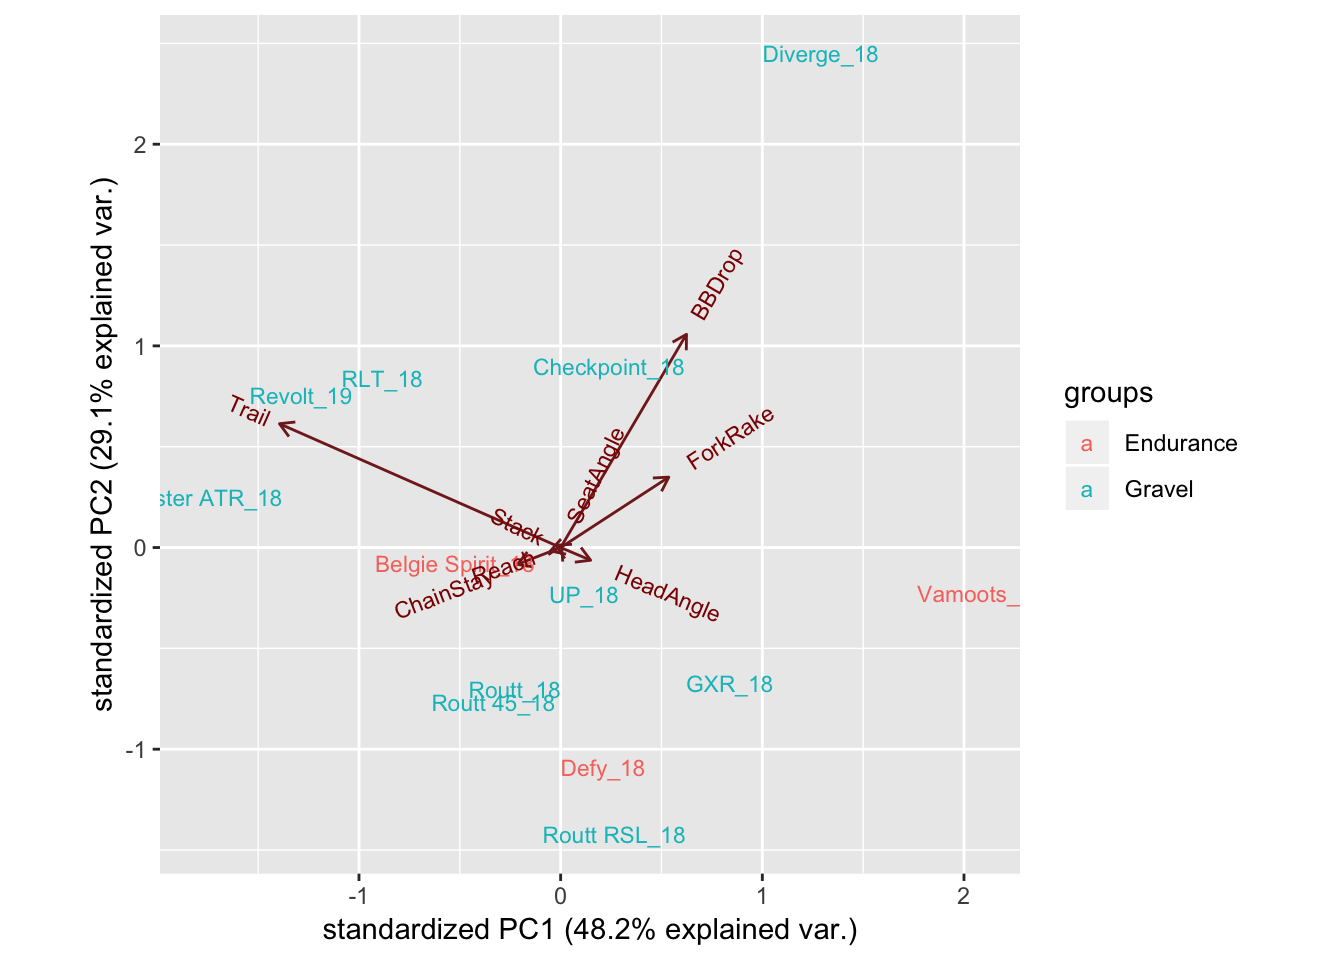
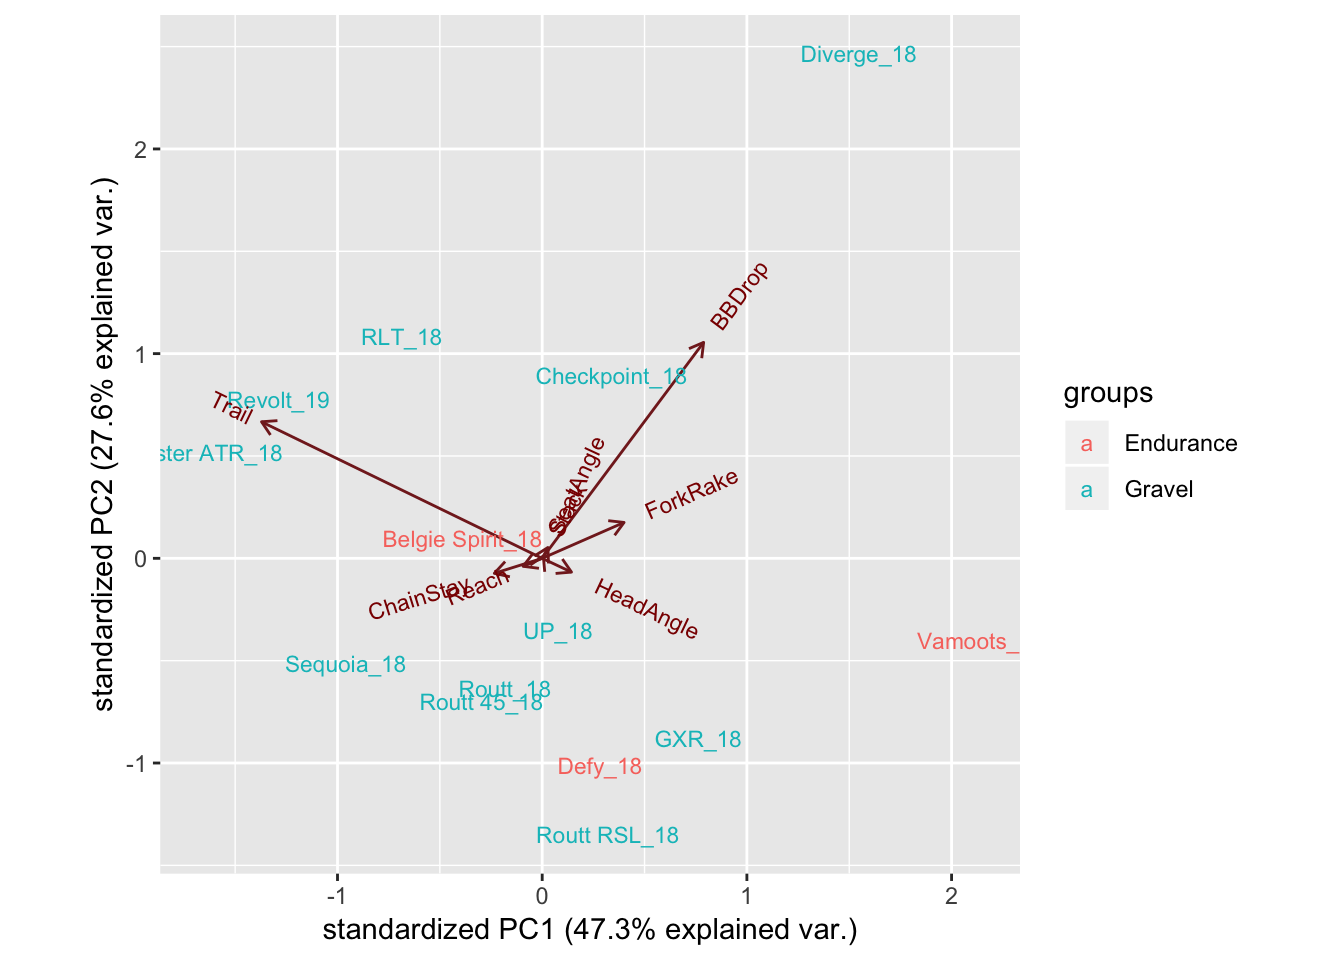
Added sequoia

diff --git a/public/post/2018-11-08-geometry/index.html b/public/post/2018-11-08-geometry/index.html
@@ -156,7 +156,7 @@ Figure 1: Principal components analysis of key bike geometry values
 </div>
 <hr />
 <div id="htmlwidget-1" style="width:100%;height:auto;" class="datatables html-widget"></div>
-<script type="application/json" data-for="htmlwidget-1">{"x":{"filter":"none","data":[["1","2","3","4","5","6","7","8","9","10","11","12","13","14","15","16","17","18","19","20","21"],["Routt","Routt RSL","Routt 45","Vamoots RSL","Vamoots","Psychlo X RSL","Belgie","Belgie Spirit","GXR","Tripster ATR","UP","Crux","520","SuperX","Tarmac","Defy","TCR Ad","Checkpoint","Diverge","RLT","Revolt"],[2018,2018,2018,2018,2018,2018,2018,2018,2018,2018,2018,2018,2018,2018,2018,2018,2018,2018,2018,2018,2019],["Gravel","Gravel","Gravel","Road","Endurance","CX","Road","Endurance","Gravel","Gravel","Gravel","CX","Touring","CX","Road","Endurance","Road","Gravel","Gravel","Gravel","Gravel"],[73.5,73.5,73.5,73.5,73.5,73.5,73.5,73.8,73,73,72.5,73.5,73.8,74,74,73.5,73,73.5,73.5,73.5,73.5],[71.5,72.5,71.5,73.5,72.5,72.5,73,71.5,71.5,70.5,71,71.5,71,71,73,72.5,73,71.8,71.9,71,70.5],[69,69,69,72,76,61,69,72,70,70,70,69,70,69,72,70,68,76,85,75,70],[423,430,450,410,415,423,410,420,432,440,420,425,450,422,410,420,405,425,421,430,425],[47,45,47,43,50,50,45,45,51,45,50,50,52,55,44,45,45,49,50,45,50],[601,585,601,572,586,577,552,574,565,591.2,551,566,565,555,544,567,545,567,592,577,572],[373,381,373,387,377,390,381,374,381,384.7,376,382,378,378,384,377,383,383,373,374,381],[63,59,63,55,54,54,56,65,59,71,63,65,65,62,58,60,57,64,62,68,71]],"container":"<table class=\"display\">\n  <thead>\n    <tr>\n      <th> <\/th>\n      <th>Frame<\/th>\n      <th>Year<\/th>\n      <th>Use<\/th>\n      <th>SeatAngle<\/th>\n      <th>HeadAngle<\/th>\n      <th>BBDrop<\/th>\n      <th>ChainStay<\/th>\n      <th>ForkRake<\/th>\n      <th>Stack<\/th>\n      <th>Reach<\/th>\n      <th>Trail<\/th>\n    <\/tr>\n  <\/thead>\n<\/table>","options":{"columnDefs":[{"className":"dt-right","targets":[2,4,5,6,7,8,9,10,11]},{"orderable":false,"targets":0}],"order":[],"autoWidth":false,"orderClasses":false}},"evals":[],"jsHooks":[]}</script>
+<script type="application/json" data-for="htmlwidget-1">{"x":{"filter":"none","data":[["1","2","3","4","5","6","7","8","9","10","11","12","13","14","15","16","17","18","19","20","21","22"],["Routt","Routt RSL","Routt 45","Vamoots RSL","Vamoots","Psychlo X RSL","Belgie","Belgie Spirit","GXR","Tripster ATR","UP","Crux","520","SuperX","Tarmac","Defy","TCR Ad","Checkpoint","Diverge","RLT","Revolt","Sequoia"],[2018,2018,2018,2018,2018,2018,2018,2018,2018,2018,2018,2018,2018,2018,2018,2018,2018,2018,2018,2018,2019,2018],["Gravel","Gravel","Gravel","Road","Endurance","CX","Road","Endurance","Gravel","Gravel","Gravel","CX","Touring","CX","Road","Endurance","Road","Gravel","Gravel","Gravel","Gravel","Gravel"],[73.5,73.5,73.5,73.5,73.5,73.5,73.5,73.8,73,73,72.5,73.5,73.8,74,74,73.5,73,73.5,73.5,73.5,73.5,73.5],[71.5,72.5,71.5,73.5,72.5,72.5,73,71.5,71.5,70.5,71,71.5,71,71,73,72.5,73,71.8,71.9,71,70.5,71.5],[69,69,69,72,76,61,69,72,70,70,70,69,70,69,72,70,68,76,85,75,70,66.5],[423,430,450,410,415,423,410,420,432,440,420,425,450,422,410,420,405,425,421,430,425,435.1],[47,45,47,43,50,50,45,45,51,45,50,50,52,55,44,45,45,49,50,45,50,50],[601,585,601,572,586,577,552,574,565,591.2,551,566,565,555,544,567,545,567,592,577,572,566],[373,381,373,387,377,390,381,374,381,384.7,376,382,378,378,384,377,383,383,373,374,381,387.8],[63,59,63,55,54,54,56,65,59,71,63,65,65,62,58,60,57,64,62,68,71,67]],"container":"<table class=\"display\">\n  <thead>\n    <tr>\n      <th> <\/th>\n      <th>Frame<\/th>\n      <th>Year<\/th>\n      <th>Use<\/th>\n      <th>SeatAngle<\/th>\n      <th>HeadAngle<\/th>\n      <th>BBDrop<\/th>\n      <th>ChainStay<\/th>\n      <th>ForkRake<\/th>\n      <th>Stack<\/th>\n      <th>Reach<\/th>\n      <th>Trail<\/th>\n    <\/tr>\n  <\/thead>\n<\/table>","options":{"columnDefs":[{"className":"dt-right","targets":[2,4,5,6,7,8,9,10,11]},{"orderable":false,"targets":0}],"order":[],"autoWidth":false,"orderClasses":false}},"evals":[],"jsHooks":[]}</script>
 <hr />
 <p>Focussing on just the gravel (and endurance) bikes gives Figure <a href="#fig:pcaGravel">2</a>. The diverge has a seriously low (large bbdrop) bottom bracket! There doesn’t seem to be much noise about it - only <a href="http://ridinggravel.com/forum/?p=%2Fpost%2F2018-specialized-diverge-bb-too-low-9628528">this</a> intriguing forum post. The UP is close to the middle of everything.</p>
 <div class="figure"><span id="fig:pcaGravel"></span>

diff --git a/content/post/2018-11-08-geometry.html b/content/post/2018-11-08-geometry.html
@@ -39,7 +39,7 @@ Figure 1: Principal components analysis of key bike geometry values
 </div>
 <hr />
 <div id="htmlwidget-1" style="width:100%;height:auto;" class="datatables html-widget"></div>
-<script type="application/json" data-for="htmlwidget-1">{"x":{"filter":"none","data":[["1","2","3","4","5","6","7","8","9","10","11","12","13","14","15","16","17","18","19","20","21"],["Routt","Routt RSL","Routt 45","Vamoots RSL","Vamoots","Psychlo X RSL","Belgie","Belgie Spirit","GXR","Tripster ATR","UP","Crux","520","SuperX","Tarmac","Defy","TCR Ad","Checkpoint","Diverge","RLT","Revolt"],[2018,2018,2018,2018,2018,2018,2018,2018,2018,2018,2018,2018,2018,2018,2018,2018,2018,2018,2018,2018,2019],["Gravel","Gravel","Gravel","Road","Endurance","CX","Road","Endurance","Gravel","Gravel","Gravel","CX","Touring","CX","Road","Endurance","Road","Gravel","Gravel","Gravel","Gravel"],[73.5,73.5,73.5,73.5,73.5,73.5,73.5,73.8,73,73,72.5,73.5,73.8,74,74,73.5,73,73.5,73.5,73.5,73.5],[71.5,72.5,71.5,73.5,72.5,72.5,73,71.5,71.5,70.5,71,71.5,71,71,73,72.5,73,71.8,71.9,71,70.5],[69,69,69,72,76,61,69,72,70,70,70,69,70,69,72,70,68,76,85,75,70],[423,430,450,410,415,423,410,420,432,440,420,425,450,422,410,420,405,425,421,430,425],[47,45,47,43,50,50,45,45,51,45,50,50,52,55,44,45,45,49,50,45,50],[601,585,601,572,586,577,552,574,565,591.2,551,566,565,555,544,567,545,567,592,577,572],[373,381,373,387,377,390,381,374,381,384.7,376,382,378,378,384,377,383,383,373,374,381],[63,59,63,55,54,54,56,65,59,71,63,65,65,62,58,60,57,64,62,68,71]],"container":"<table class=\"display\">\n  <thead>\n    <tr>\n      <th> <\/th>\n      <th>Frame<\/th>\n      <th>Year<\/th>\n      <th>Use<\/th>\n      <th>SeatAngle<\/th>\n      <th>HeadAngle<\/th>\n      <th>BBDrop<\/th>\n      <th>ChainStay<\/th>\n      <th>ForkRake<\/th>\n      <th>Stack<\/th>\n      <th>Reach<\/th>\n      <th>Trail<\/th>\n    <\/tr>\n  <\/thead>\n<\/table>","options":{"columnDefs":[{"className":"dt-right","targets":[2,4,5,6,7,8,9,10,11]},{"orderable":false,"targets":0}],"order":[],"autoWidth":false,"orderClasses":false}},"evals":[],"jsHooks":[]}</script>
+<script type="application/json" data-for="htmlwidget-1">{"x":{"filter":"none","data":[["1","2","3","4","5","6","7","8","9","10","11","12","13","14","15","16","17","18","19","20","21","22"],["Routt","Routt RSL","Routt 45","Vamoots RSL","Vamoots","Psychlo X RSL","Belgie","Belgie Spirit","GXR","Tripster ATR","UP","Crux","520","SuperX","Tarmac","Defy","TCR Ad","Checkpoint","Diverge","RLT","Revolt","Sequoia"],[2018,2018,2018,2018,2018,2018,2018,2018,2018,2018,2018,2018,2018,2018,2018,2018,2018,2018,2018,2018,2019,2018],["Gravel","Gravel","Gravel","Road","Endurance","CX","Road","Endurance","Gravel","Gravel","Gravel","CX","Touring","CX","Road","Endurance","Road","Gravel","Gravel","Gravel","Gravel","Gravel"],[73.5,73.5,73.5,73.5,73.5,73.5,73.5,73.8,73,73,72.5,73.5,73.8,74,74,73.5,73,73.5,73.5,73.5,73.5,73.5],[71.5,72.5,71.5,73.5,72.5,72.5,73,71.5,71.5,70.5,71,71.5,71,71,73,72.5,73,71.8,71.9,71,70.5,71.5],[69,69,69,72,76,61,69,72,70,70,70,69,70,69,72,70,68,76,85,75,70,66.5],[423,430,450,410,415,423,410,420,432,440,420,425,450,422,410,420,405,425,421,430,425,435.1],[47,45,47,43,50,50,45,45,51,45,50,50,52,55,44,45,45,49,50,45,50,50],[601,585,601,572,586,577,552,574,565,591.2,551,566,565,555,544,567,545,567,592,577,572,566],[373,381,373,387,377,390,381,374,381,384.7,376,382,378,378,384,377,383,383,373,374,381,387.8],[63,59,63,55,54,54,56,65,59,71,63,65,65,62,58,60,57,64,62,68,71,67]],"container":"<table class=\"display\">\n  <thead>\n    <tr>\n      <th> <\/th>\n      <th>Frame<\/th>\n      <th>Year<\/th>\n      <th>Use<\/th>\n      <th>SeatAngle<\/th>\n      <th>HeadAngle<\/th>\n      <th>BBDrop<\/th>\n      <th>ChainStay<\/th>\n      <th>ForkRake<\/th>\n      <th>Stack<\/th>\n      <th>Reach<\/th>\n      <th>Trail<\/th>\n    <\/tr>\n  <\/thead>\n<\/table>","options":{"columnDefs":[{"className":"dt-right","targets":[2,4,5,6,7,8,9,10,11]},{"orderable":false,"targets":0}],"order":[],"autoWidth":false,"orderClasses":false}},"evals":[],"jsHooks":[]}</script>
 <hr />
 <p>Focussing on just the gravel (and endurance) bikes gives Figure <a href="#fig:pcaGravel">2</a>. The diverge has a seriously low (large bbdrop) bottom bracket! There doesn’t seem to be much noise about it - only <a href="http://ridinggravel.com/forum/?p=%2Fpost%2F2018-specialized-diverge-bb-too-low-9628528">this</a> intriguing forum post. The UP is close to the middle of everything.</p>
 <div class="figure"><span id="fig:pcaGravel"></span>
